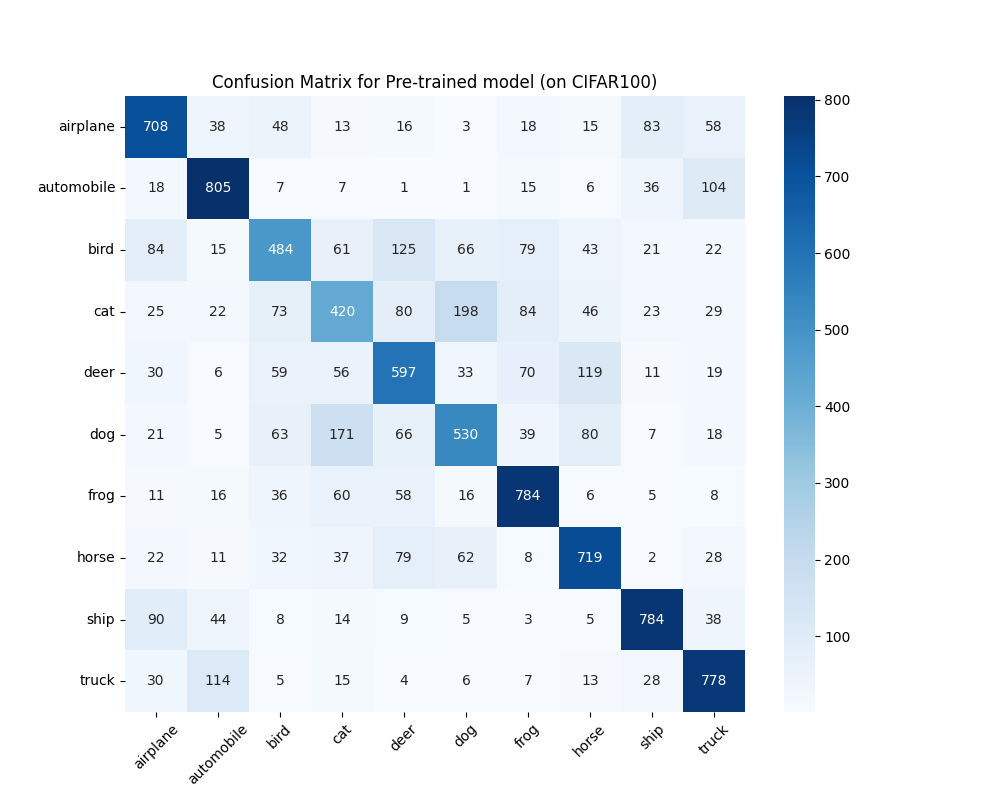
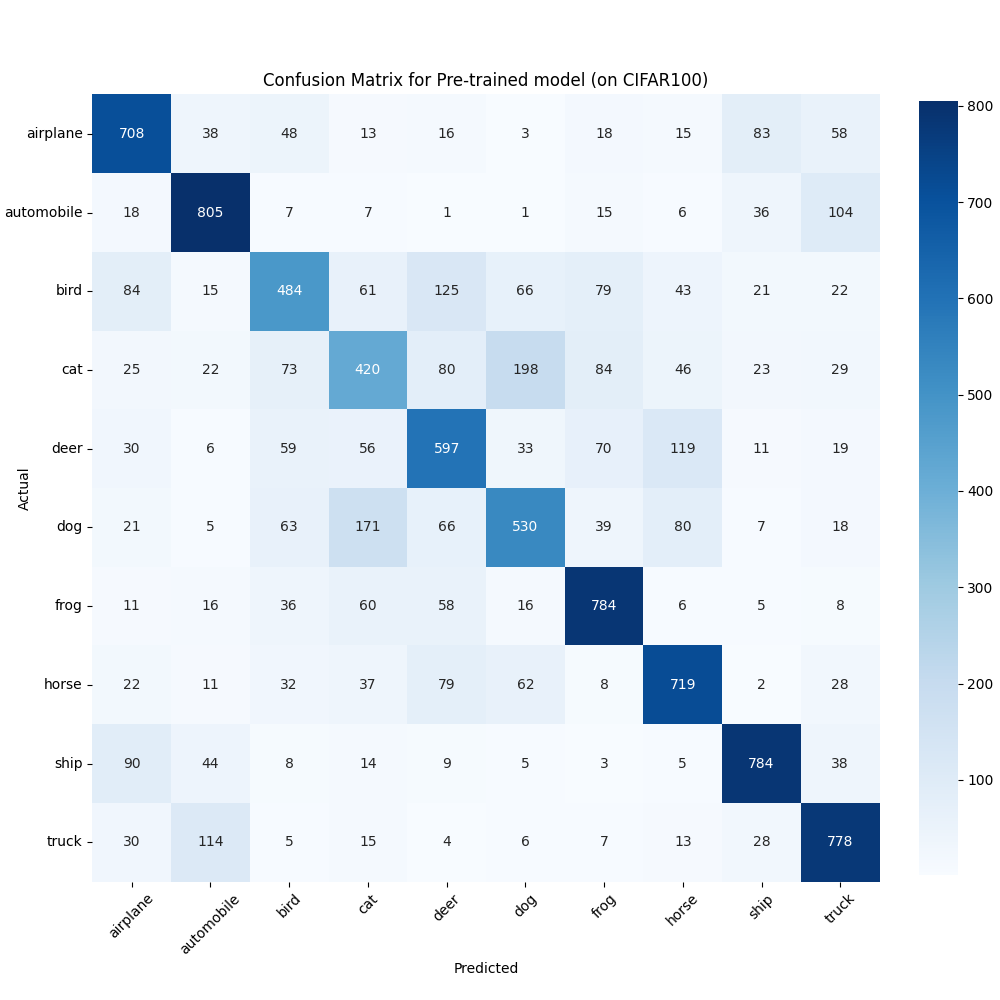
cm plots neater

diff --git a/testing.py b/testing.py
@@ -66,19 +66,20 @@ def test_model(model_to_test):
     confusion = confusion_matrix(all_labels, all_predictions)
 
     # Start matplotlib figure with labels and title.
-    plt.figure(figsize=(10, 8))
-    plt.xlabel("Predicted")
-    plt.ylabel("Actual")
+    plt.figure(figsize=(10, 10), constrained_layout=True)
     plt.title(f"Confusion Matrix for {model_name(model_to_test)}")
 
     # Add heatmap using seaborn
-    seaborn.heatmap(confusion, annot=True, fmt="d", cmap="Blues")
+    seaborn.heatmap(confusion, annot=True, fmt="d", cmap="Blues", square=True, cbar_kws={"shrink": 0.8})
 
     # Replace the axis ticks with class labels
     class_labels = ["airplane", "automobile", "bird", "cat", "deer", "dog", "frog", "horse", "ship", "truck"]
     tick_positions = np.arange(0, 10) + 0.5 # Middle of cell, 10x times.
     plt.xticks(ticks=tick_positions, labels=class_labels, rotation=45)  # predicted labels
     plt.yticks(ticks=tick_positions, labels=class_labels, rotation=0)   # true labels
+
+    plt.xlabel("Predicted")
+    plt.ylabel("Actual", labelpad=-20)
 
     # Show and save the image.
     matrices_dir = "confusion_matrices"
